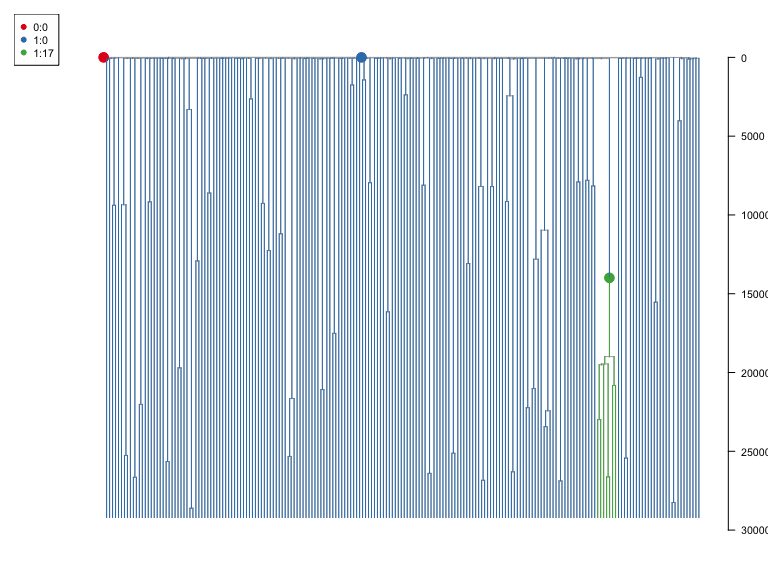
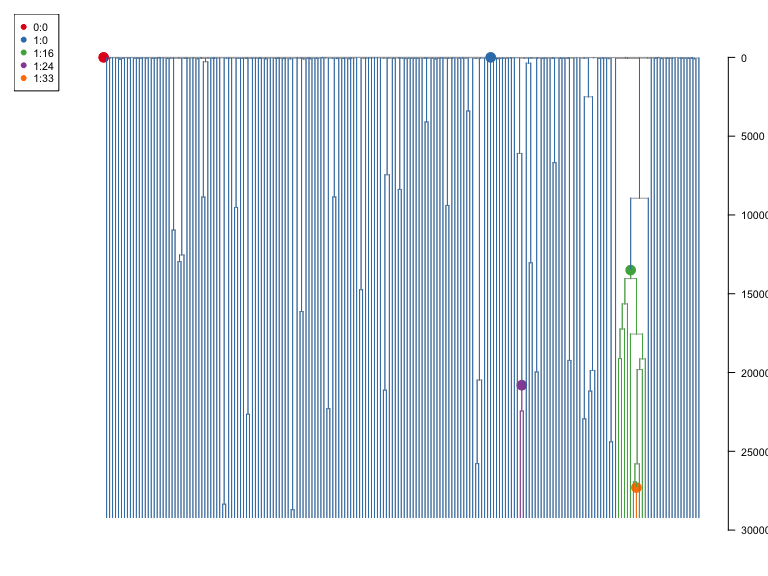
Added usage example for death rate

Changed region(s): [[0.125, 0.0938, 0.9062, 0.9062], [0.0312, 0.0938, 0.0938, 0.1875]]

diff --git a/README.md b/README.md
@@ -134,7 +134,7 @@ get_elapsed_time_tree
 #>     }
 #>     tree
 #> }
-#> <bytecode: 0x122f4e0e0>
+#> <bytecode: 0x1344cf1c8>
 #> <environment: namespace:rsimpop>
 sampledtree1m=get_elapsed_time_tree(sampledtree1,mutrateperdivision=1,backgroundrate=15/365)
 ```
@@ -256,7 +256,7 @@ run_neutral_sim
 #>     adult1 = sim_pop(growthphase, params = params, cfg)
 #>     return(adult1)
 #> }
-#> <bytecode: 0x127c4fa00>
+#> <bytecode: 0x145dcc960>
 #> <environment: namespace:rsimpop>
 testing=run_neutral_sim(0.1,0.5/365,target_pop_size = 1e3,nyears=10)
 #> n_sim_days: 3650
@@ -652,6 +652,66 @@ plot_tree(get_elapsed_time_tree(st),cex.label = 0)
     #> 
     #> Rooted; includes branch lengths.
 
+## Neutral simulation with a trajectory and a non-zero death rate
+
+By default during the growth phase of the simulation the population is a
+pure birth process until the target population is hit at which point the
+aggregate death rate is set to match the aggregate birth rate. A death
+rate (less than birth rate) can also be specified in the trajectory and
+the population will then stochastically grow exponentially towards the
+target following a birth-death process.
+
+``` r
+trajectory=data.frame(ts=c(70,400),target_pop_size=c(1e4,1e4),division_rate=c(0.06,0.06),death_rate=c(0.05,0.05))
+print(head(trajectory))
+#>    ts target_pop_size division_rate death_rate
+#> 1  70           10000          0.06       0.05
+#> 2 400           10000          0.06       0.05
+sp=run_neutral_trajectory(NULL,initial_division_rate = 0.1,trajectory = trajectory)
+#> cell population will be modelled based on provided trajectory
+#> n_sim_days: 70
+#> b_stop_if_empty: 0
+#> b_stop_at_pop_size: 1
+#> maxt: 0
+#> driver_rate_per_cell_per_day: 0
+#> max_driver_count: -1
+#> MAX_EVENTS= 140 
+#> MAX_SIZE= 30003 
+#> n_sim_days: 70.0151374827015
+#> b_stop_if_empty: 0
+#> b_stop_at_pop_size: 0
+#> maxt: 70.0151374827015
+#> driver_rate_per_cell_per_day: 0
+#> max_driver_count: -1
+#> MAX_EVENTS= 800 
+#> MAX_SIZE= 30103
+plot(sp)
+lines(trajectory$ts,trajectory$target_pop_size,col="red")
+legend("topright",c("Target","Actual"),col=c("red","black"),lwd=1)
+abline(v=trajectory$ts,lwd=2,col="blue")
+```
+
+<img src="man/figures/README-neutwithtrajdr-1.png" width="100%" />
+
+``` r
+st=get_subsampled_tree(sp,200)
+#> Starting checking the validity of tmp...
+#> Found number of tips: n = 201 
+#> Found number of nodes: m = 200 
+#> Done.
+plot_tree(get_elapsed_time_tree(st),cex.label = 0)
+```
+
+<img src="man/figures/README-neutwithtrajdr-2.png" width="100%" />
+
+    #> 
+    #> Phylogenetic tree with 201 tips and 200 internal nodes.
+    #> 
+    #> Tip labels:
+    #>   s1, s2, s3, s4, s5, s6, ...
+    #> 
+    #> Rooted; includes branch lengths.
+
 ## Multiple drivers
 
 Multiple drivers can be generated at a specified rate so the waiting
@@ -693,17 +753,21 @@ Look at the final per driver counts
 print(dps$cfg$info %>% filter(population>0))
 #>    population val    fitness id driver1
 #> 1           1   0 0.00000000  0       0
-#> 2       89641   1 0.00000000  0       0
-#> 3        4221   1 0.10617350 21       0
-#> 4        2212   1 0.11414951 27       0
-#> 5           2   1 0.09108533 75       0
-#> 6        3332   1 0.09078502  7       0
-#> 7         542   1 0.08909743 38       0
-#> 8          14   1 0.18729498 63       0
-#> 9           2   1 0.17517448 84       0
-#> 10         30   1 0.08297626 59       0
-#> 11          5   1 0.10511988 77       0
-#> 12         24   1 0.09144080 70       0
+#> 2       88200   1 0.00000000  0       0
+#> 3        2576   1 0.11060873  8       0
+#> 4        3858   1 0.11054592 20       0
+#> 5         787   1 0.08258794 26       0
+#> 6        2661   1 0.09181864  6       0
+#> 7         615   1 0.09714999 28       0
+#> 8         698   1 0.08010027 37       0
+#> 9           4   1 0.10144519 51       0
+#> 10        403   1 0.19702666 44       0
+#> 11        120   1 0.10807601 41       0
+#> 12         10   1 0.11772413 76       0
+#> 13         15   1 0.17391097 62       0
+#> 14          4   1 0.28992034 83       0
+#> 15         16   1 0.12372851 60       0
+#> 16         48   1 0.11243198 61       0
 ```
 
 Plot an example sampled tree
